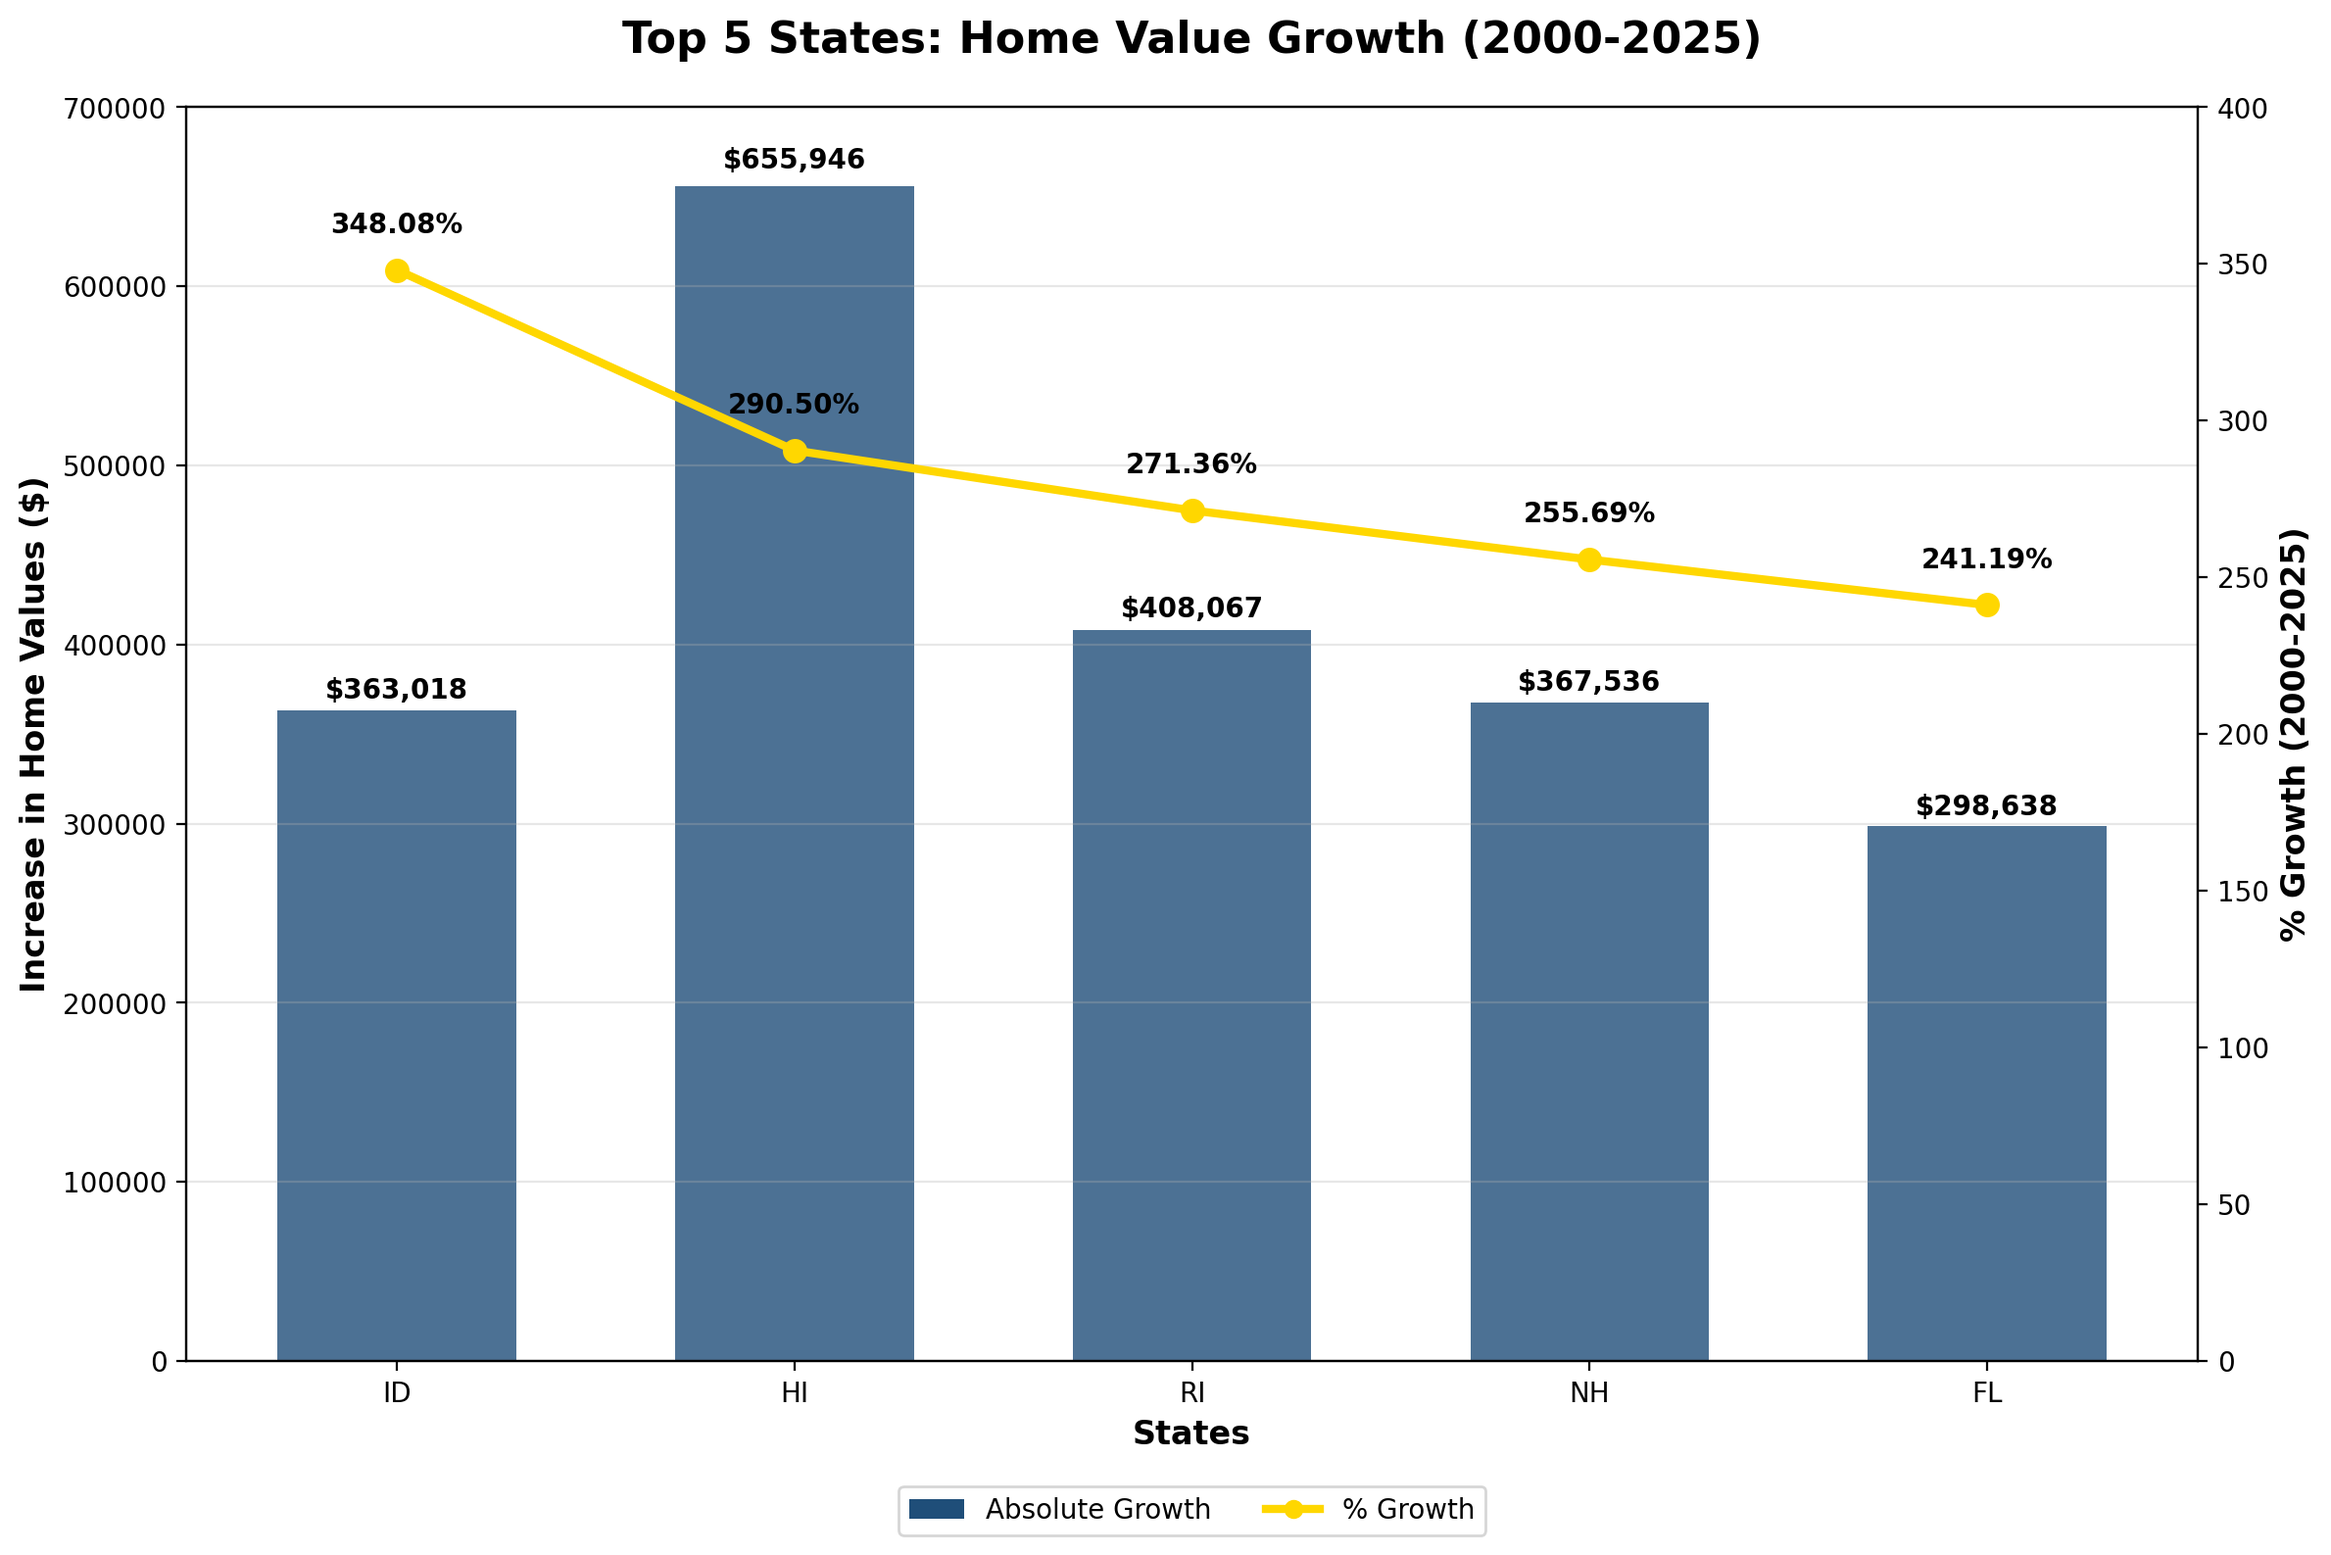
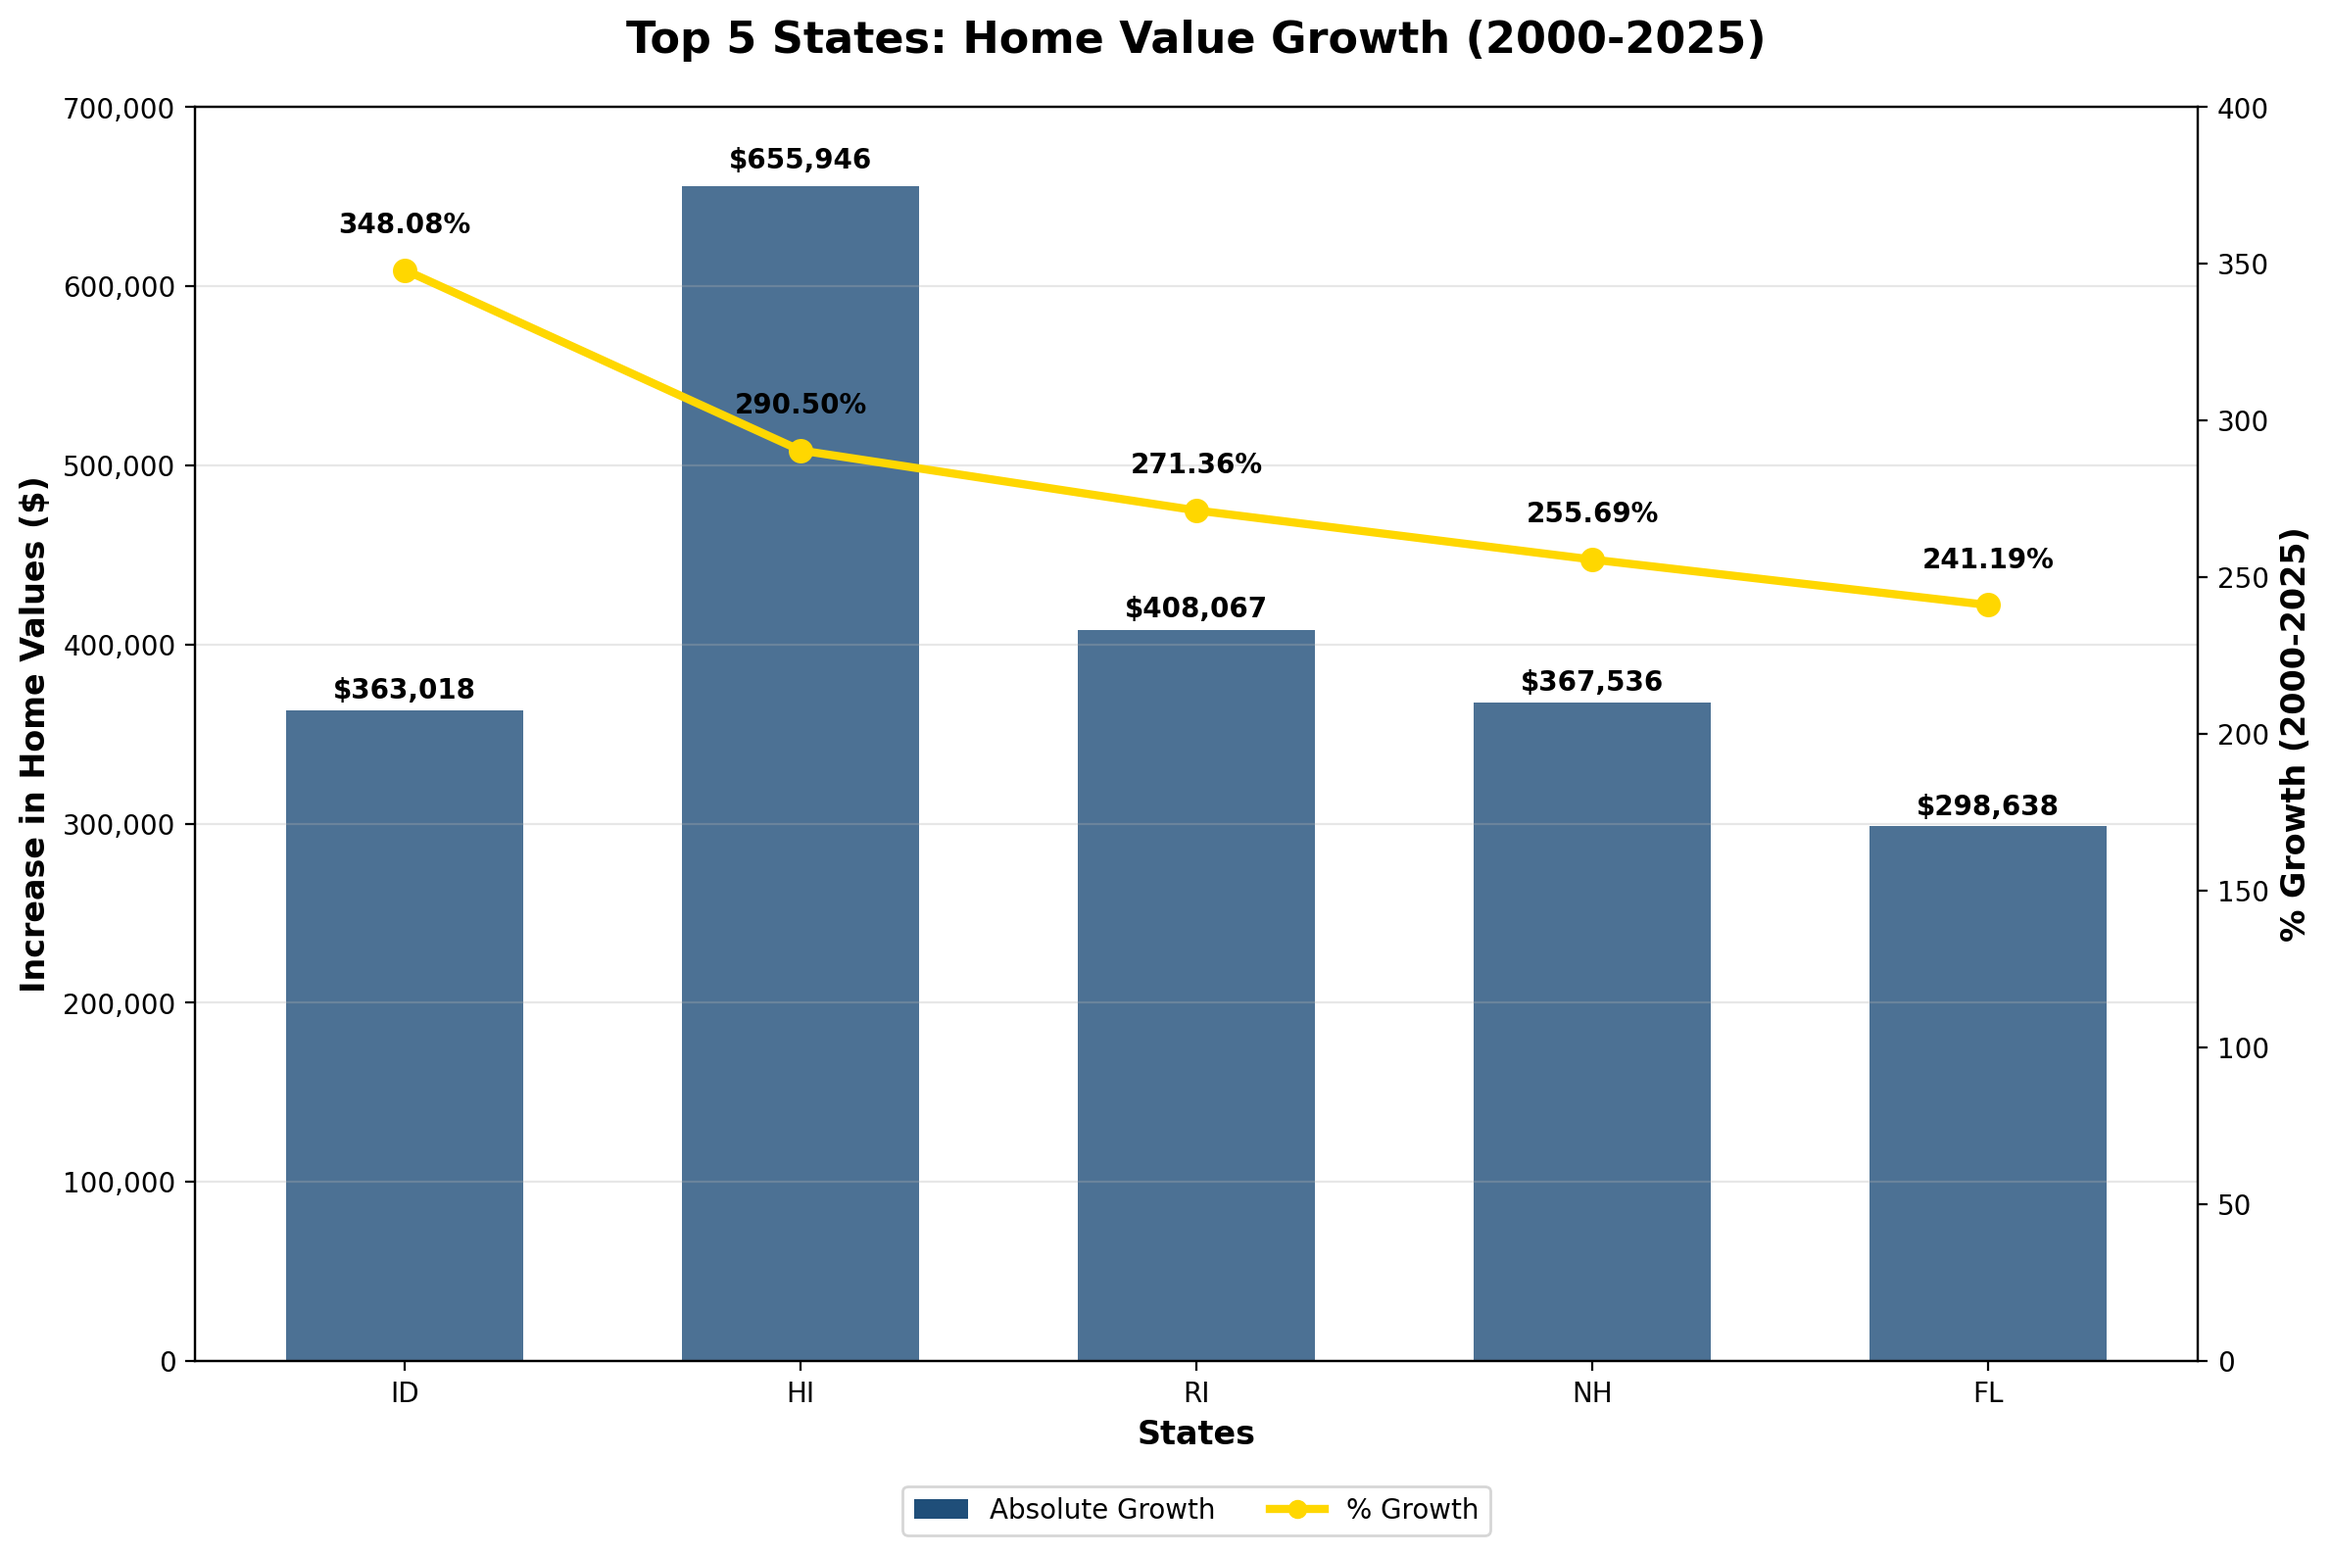
Add comma formatting to left Y-axis tick labels for better readability

diff --git a/housing-portfolio/scripts/run_analysis.py b/housing-portfolio/scripts/run_analysis.py
@@ -199,6 +199,9 @@ def run_queries(con: duckdb.DuckDBPyConnection):
         ax1.set_yticks(range(0, 700001, 100000))
         ax1.tick_params(axis='y', labelcolor='black')
         
+        # Format left Y-axis tick labels with commas
+        ax1.yaxis.set_major_formatter(plt.FuncFormatter(lambda x, p: f'{x:,.0f}'))
+        
         # Add value labels on bars
         for bar in bars:
             height = bar.get_height()
